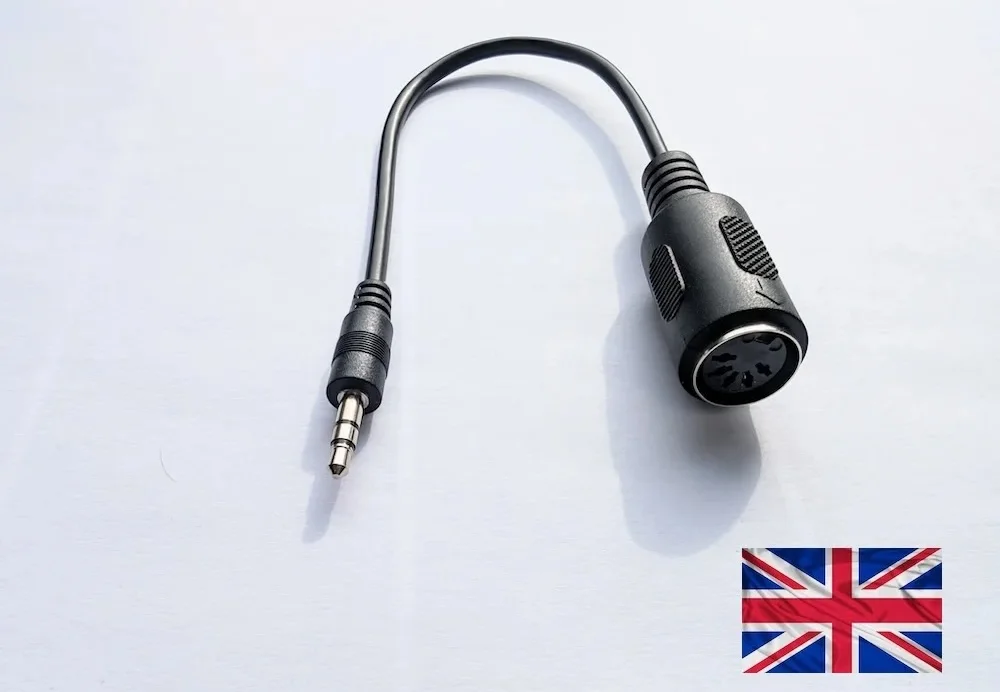
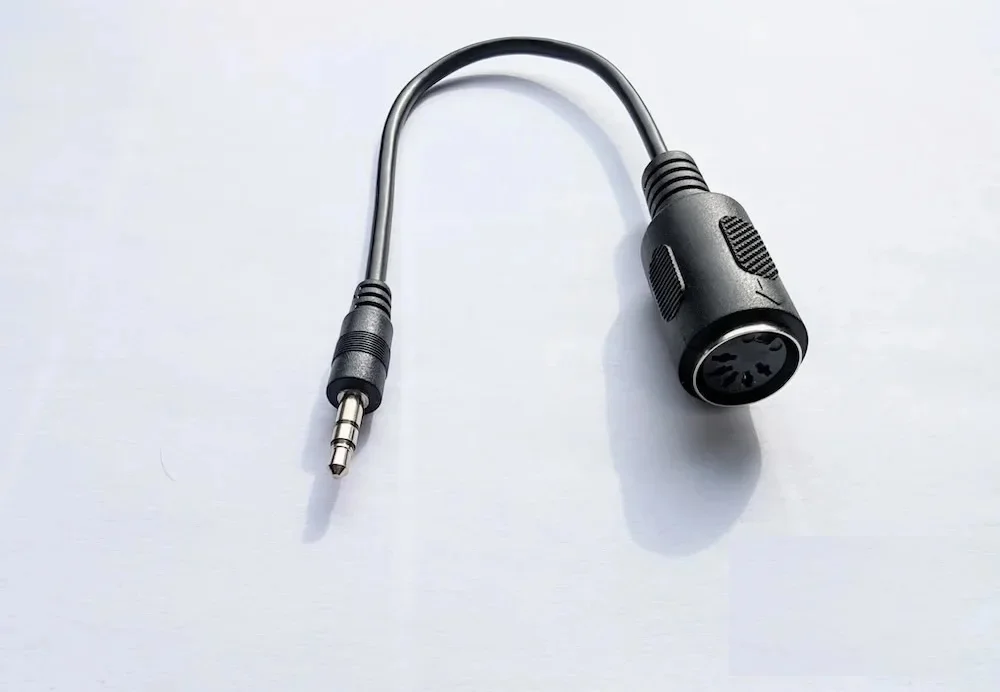
update picogus to use dropdown delivery option
Change image to remove UK flag on Midi page

Changed region(s): [[0.744, 0.789, 0.961, 0.9711]]

diff --git a/picogusall.md b/picogusall.md
@@ -1,19 +1,18 @@
 ---
 layout: page
-permalink: /picogusrow
-title: PicoGUS board Rest of the World
-cart_itemid: picogusrow
-cart_name: "PicoGUS board Rest of the World"
-cart_description: "PicoGUS board ROW - Fully Assembled"
-cart_price: 60
-cart_image: "assets/img/picogusrow.webp"
+permalink: /picogusall
+title: PicoGUS board assembled
+cart_name: "PicoGUS board"
+cart_description: "PicoGUS board - Fully Assembled"
+cart_price: 50
+cart_image: "assets/img/picogusuk.webp"
 cart_image1: "assets/img/picogus201.webp"
-cart_image2: "assets/img/midirow.webp"
+cart_image2: "assets/img/midiuk.webp"
 tags: 
-  - pgrow
+  - pguk
 ---
 
-##### 🇪🇺🌍 PicoGUS board for Europe and the Rest of the World 🇪🇺🌍
+##### 🌍🇬🇧 PicoGUS board 🇬🇧🌍
 
 {% include carousel3.html %}
 
@@ -26,12 +25,12 @@ An ISA sound card emulator, powered by a Raspberry Pi Pico. PicoGUS can emulate 
 * Comes with a bracket (Nickel plated mild steel)
 * Red PCB with [gold ENIG](https://en.wikipedia.org/wiki/Electroless_nickel_immersion_gold){:target="_blank"}
 
-Price includes shipping costs. Please visit the <a href="/picogusuk">UK Page</a> if buying from the UK
+Price includes shipping costs.
 
 &#128221; STOCK COUNT: {{site.picogus}}
 
 {% if site.picogus > 0 %}
-##### £{{page.cart_price}} &nbsp; {{site.icon}}[Add to cart](/cart#{{page.cart_itemid}})
+{% include price.md %}
 {% else %}
 {% include outofstock.md %}
 {% endif %}

diff --git a/_includes/price.md b/_includes/price.md
@@ -3,9 +3,12 @@
   <select class="form-select" id="deliveryOption" onchange="updatePrice()" style="border: 2px solid #004e92; padding: 0.75rem; font-size: 1.1rem; margin-bottom: 1rem; width: 100%;">
     <option value="">-- Please select your region --</option>
 
-    {% if page.cart_name contains 'PowerShark' %}
+  {% if page.cart_name contains 'PowerShark' %}
   <option value="uk" data-price="{{site.psukprice}}" data-sku="powersharkuk">🇬🇧 UK Delivery - £{{site.psukprice}} (48hr tracked)</option>
   <option value="row" data-price="{{site.psrowprice}}" data-sku="powersharkrow">🌍 Rest of World - £{{site.psrowprice}} (International tracked)</option>
+  {% elsif page.cart_name contains 'PicoGUS' %}
+    <option value="uk" data-price="50" data-sku="picogusuk">🇬🇧 UK Delivery - £50</option>
+    <option value="row" data-price="62" data-sku="picogusrow">🌍 Rest of World - £62 (International tracked)</option>
   {% elsif page.cart_name contains 'PicoMEM' %}
     <option value="uk" data-price="46" data-sku="picomemuk">🇬🇧 UK Delivery - £46</option>
     <option value="row" data-price="56" data-sku="picomemrow">🌍 Rest of World - £56 (International tracked)</option>

diff --git a/picogus.md b/picogus.md
@@ -12,21 +12,8 @@ To prepare your DOS computer for using the V2 PicoGUS, Please see the PicoGUS [G
 PicoGUS now supports CD-ROM emulation, see the [Wiki](https://github.com/polpo/picogus/wiki/CD%E2%80%90ROM-Emulation){:target="_blank"} for more info.
 
 {% assign cat_items = site.pages |  where_exp:"page", "page.tags contains 'pguk'" %}
-<u>🇬🇧 PicoGUS V2 Products for the UK 🇬🇧</u>
+<u> PicoGUS V2 Products</u>
 
-<div class="container">
-<div class="row">
-	{% for page in cat_items %}
-<div class="col-md-4" markdown="1">
-{% include listnoprice.md %}
-</div>
-	  {% endfor %}
-</div>
-</div>
-<hr>
-
-{% assign cat_items = site.pages |  where_exp:"page", "page.tags contains 'pgrow'" %}
-<u>🇪🇺🌍 PicoGUS V2 Products for the Rest of the World 🇪🇺🌍</u>
 <div class="container">
 <div class="row">
 	{% for page in cat_items %}

diff --git a/powershark.md b/powershark.md
@@ -15,7 +15,7 @@ tags:
 
 {% include carousel2.html %}
 
-
+##### Sorry, sold out, Next batch will be coming December 2025
 
 The PowerShark is a compact, efficient USB-C power adapter designed for Amiga computers (A500, A600, A1200). It offers stable power, suitable for long-term operation, and can be used with various USB-C power supplies, including portable, battery based chargers. PowerShark has advanced monitoring and protection features, safeguarding against voltage deviations and power supply failures. It is eco-friendly, with zero power consumption when off, and features a delay mechanism to prevent rapid power cycling. The device is small, lightweight, and elegantly designed. For more detailed information, please visit <a href="https://retrousbpower.com" target="_blank">PowerShark's website</a>
 
